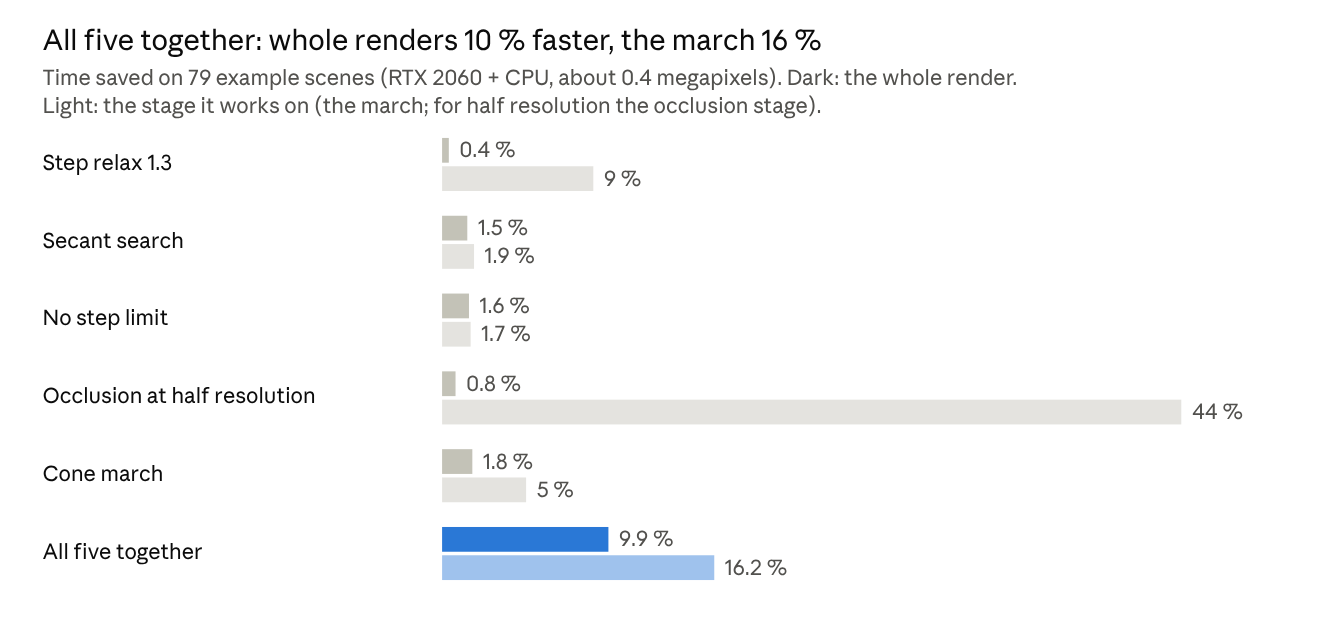
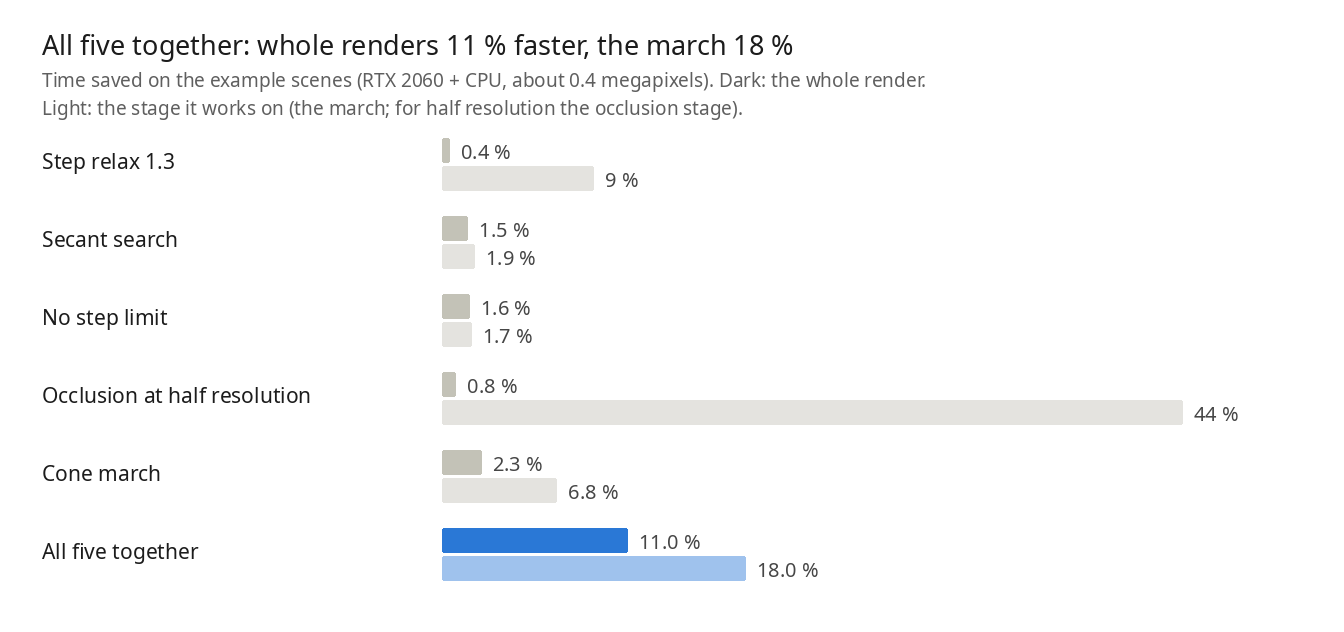
Cone march: the coarse rays within the march's step limit, margin 1.5: the coarse ray of a block (Marcher::cone_march, the card's cone pass) stepped by the distance estimate alone, without the step limit every pixel's march keeps (max(DE stop, 0.4) * mh04zsd, MB3D's raystep limiter), so where the es

diff --git a/src/cone.rs b/src/cone.rs
@@ -219,6 +219,43 @@ mod tests {
         assert!(si.zpos() >= 32768 && si.shadow > 0, "{} {}", si.zpos(), si.shadow);
     }
 
+    /// LightBulbMoon - No, Never (Amazing Surf, 1000 iterations), 192 by 192:
+    /// its estimate is far too large off the surface, only the march's
+    /// step limit finds the thin parts; without that limit the coarse rays
+    /// passed them (at margin 3 a 55th of the surface became background,
+    /// with the limit a 200th, the march's edge pixels).
+    #[test]
+    fn the_coarse_rays_keep_the_marchs_step_limit() {
+        let sc = Scene::parse(
+            "width = 192\nheight = 192\niterations = 1000\nmin_iterations = 1\nrstop = 1024\n\
+             zoom = 39.7619219387428\nmid = 0.590668486717442, -4.80312498339983, 0.552945843153886\n\
+             z_start = 0.439069097449697\nz_end = 128.821828929992\n\
+             vgrads = -0.00002291690465552792, -0.000005663780594645785, 0.000012774063303579667, 0.0000019315813555699398, 0.000023017705602866107, 0.000013670912374282298, -0.000013839223149258143, 0.00001259152258681232, -0.00001924497556427487\n\
+             fov = 60\nde_stop = 0.384\nrepeat_from = 1\nraystep = 0.3\nraystep_limiter = 0.3\nbin_search = 11\n\
+             step_sub_de_stop = true\nvary_de_stop = true\nfirst_step_random = false\n\
+             julia = true\njulia_c = 2.38125, 0.0109375, 0.0498046875, 0\n\
+             experimental = on\ncone_march = on\n\
+             [formula]\nname = _Rotate\niterations = 1\nrotation1 x = 25.1484375\nrotation1 y = -2.3671875\nrotation1 z = 64.21875\n\
+             [formula]\nname = Amazing Surf\niterations = 1\nscale = 1.0444335937499998\nmin r = -2.05625\nfold = 1.0703125\n\
+             rotation1 x = 5.1640625\nrotation1 y = 5\nrotation1 z = 2.609375\nscale vary = 0\nsphere or cylinder = 0\n",
+        )
+        .unwrap();
+        let p = CalcParams::new(&sc).unwrap();
+        assert!(p.cone.is_some());
+        let plain = CalcParams { cone: None, ..p.clone() };
+        let (mut m, mut mp) = (Marcher::new(&p, 0), Marcher::new(&plain, 0));
+        let (mut surface, mut lost) = (0, 0);
+        for y in 0..sc.height {
+            for x in 0..sc.width {
+                let hit = mp.march_pixel(x, y).zpos() < 32768;
+                surface += hit as usize;
+                lost += (hit && m.march_pixel(x, y).zpos() >= 32768) as usize;
+            }
+        }
+        assert!(surface > 10000, "{surface} pixels on the surface");
+        assert!(lost * 100 < surface, "{lost} of {surface} surface pixels background with the cone march");
+    }
+
     #[test]
     fn when_the_cone_march_is_not_used() {
         assert_eq!(not_wanted(&scene("")), None);

diff --git a/src/calc.rs b/src/calc.rs
@@ -2147,7 +2147,9 @@ impl<'a> Marcher<'a> {
             let rsf = if last_step > 0.0 && last_de > de + 1e-30 { (last_step / (last_de - de)).clamp(0.5, 1.0) } else { 1.0 };
             let stop = self.ms_de_stop as f64;
             let reach = (a + slope * t) * lip + stop;
-            let s = (de - reach - p.ms_de_sub as f64 * stop) * p.z_step_div as f64 * rsf / div;
+            // (no longer than the march's step limit: where the estimate is
+            // far too large the limit alone finds the thin parts)
+            let s = ((de - reach - p.ms_de_sub as f64 * stop) * p.z_step_div as f64 * rsf / div).min((self.ms_de_stop.max(0.4) * p.mh04zsd) as f64);
             if s < CONE_MIN_STEP * stop {
                 return (t, count);
             }
@@ -2384,11 +2386,13 @@ const CONE_MIN_STEP: f64 = 0.05;
 
 /// The cone march takes the distance estimate for up to this many times
 /// (over the step factor) a true bound: a block's spread counts that much
-/// (measured on 80 example scenes: at 1 the thin fins of a folding
-/// formula were lost, at 2 still in small pictures; at 3 the pictures
-/// differ as much as the march's own random first step makes them, and
-/// the gain is a tenth less than at 2).
-const CONE_MARGIN: f64 = 3.0;
+/// (measured on the 80 example scenes, the coarse ray's steps within the
+/// march's step limit: at 1.5 the pictures and their holes differ as much
+/// as the march's own random first step makes them; at 1 the fog of
+/// KentPress and the sphere of "cutted sphere over carpet" changed; 3, the
+/// first value, without the step limit, lost 1.8 % of LightBulbMoon -
+/// No, Never and had a third less gain).
+const CONE_MARGIN: f64 = 1.5;
 
 /// The secant search's step back towards the probe before (DE minus DE
 /// stop `f0`) from the probe with `f` on the other side of the surface:

diff --git a/src/mcp.rs b/src/mcp.rs
@@ -114,7 +114,7 @@ Experimental speed-ups (not in MB3D, change the picture a little, off by default
   thin shells can show holes), secant_search = on, free_steps = on (no step limit without
   dynamic fog), occlusion_half = on (DE occlusion at half resolution, that stage up to 4x faster),
   cone_march = on (a coarse ray per block of pixels starts every pixel's march, the march up to
-  60 % faster in open scenes; thin parts can be lost where the distance estimate is far off).
+  60 % faster in open scenes, about a fifth on average on the processor).
 Two objects (not in MB3D): with de_combination (min = union, max = intersection, ...), the
   second hybrid part placed apart: part2_position = x, y, z; part2_rotation = degrees x, y, z;
   part2_scale (1 = as is).

diff --git a/docs/EXPERIMENTAL.md b/docs/EXPERIMENTAL.md
@@ -1,11 +1,13 @@
 # The experimental speed-ups
 
-mb3d-rs 0.2.92 has five experimental speed-ups that change the picture a
-little, so they are off until you switch them on. Measured on the 80 example
-files that ship with the program (2 November 2026, about 0.4 megapixels, one
-PC: an RTX 2060 and a Ryzen 9 3900X), all five together make a render a tenth
-faster on average and a third faster in open scenes; on the processor alone the
-cone march cuts the march by 18 %, up to 64 %.
+mb3d-rs has five experimental speed-ups that change the picture a little, so
+they are off until you switch them on. Measured on the 80 example files that
+ship with the program (2 November 2026, about 0.4 megapixels, one PC: an RTX
+2060 and a Ryzen 9 3900X), all five together make a render 11 % faster on
+average and a third faster in open scenes; on the processor alone the cone
+march cuts the march by 18 %, up to 66 %. (The figures for the cone march are
+those of its fixed version in 0.2.93: in 0.2.92 it could lose thin parts where
+the distance estimate is far too large, see [below](#the-cone-march-in-0292).)
 
 ## Where they are
 
@@ -31,18 +33,18 @@ All five work on the processor and on the graphics card.
 
 ## Each one on its own
 
-On its own, each speed-up shaves 0.4–1.8 % off a whole render on this PC,
+On its own, each speed-up shaves 0.4–2.3 % off a whole render on this PC,
 because the graphics card already does most of the marching and the shadows,
 occlusion and reflections take their own time. Look at the stage each one
 works on and the picture is clearer: step relax cuts the march by 9 %, the
-cone march by 5 %, and the half-resolution occlusion cuts the occlusion stage
+cone march by 7 %, and the half-resolution occlusion cuts the occlusion stage
 by 44 %.
 
 ![Time saved per speed-up: the whole render and the stage it works on](img/experimental_gains.png)
 
 On the processor alone the cone march matters most: measured on the same
-scenes without the card, it cuts the march by 18 % (median), up to 64 % in
-open scenes.
+scenes without the card, it cuts the march by 18 % (median 21 %), up to 66 %
+in open scenes, and 68 of the 70 scenes it works in get faster.
 
 | Speed-up | Where it shines | Pixels changed (median) | Watch out for |
 |---|---|---|---|
@@ -50,7 +52,7 @@ open scenes.
 | Secant search | Scenes with many surface hits: up to −8 % | 0.7 % | Fine detail moves slightly |
 | No step limit | Open scenes without dynamic fog: up to −30 % | 0.03 % | Nothing visible |
 | Occlusion at half resolution | Scenes with DE occlusion: up to −20 % of the whole render | 0.0 % (up to 23 % in fine detail) | Softer occlusion in fine detail |
-| Cone march | Open scenes: up to −43 % of the whole render (−64 % of the march on the processor) | 0.9 % | Thin parts of folding formulas at small sizes; off by itself for inside+outside, disable analytic DE and volumetric light |
+| Cone march | Open scenes: up to −47 % of the whole render (−66 % of the march on the processor) | 0.9 % | On the card, scenes with dynamic fog can get slower (6 AM – Torii temple); off by itself for inside+outside, disable analytic DE and volumetric light |
 
 "Pixels changed" is the share of pixels that differ by more than 8 of 255
 from the plain render; the march's own random first step already moves about
@@ -58,15 +60,15 @@ from the plain render; the march's own random first step already moves about
 
 ## All five together
 
-All five switched on cut the 79 renders from 161 s to 145 s, a tenth less,
-and 68 of the 79 scenes got faster (the slowest of the rest lost 7 %). The
-best scenes: Nothing left but bones −45 %, LightBulbMoon – No, Never −39 %,
-DEcomb1 −35 %, Mandalex −33 %. The march stage alone shrinks by 16 %, the
-occlusion stage by 46 %.
+All five switched on cut the 78 renders from 155 s to 138 s, 11 % less, and 71
+of the 78 scenes got faster (the slowest of the rest, Wada basin, a one-second
+render, lost a fifth). The best scenes: Nothing left but bones −48 %, Mandalex
+−42 %, LightBulbMoon – No, Never −41 %, DEcomb1 −36 %. The march stage alone
+shrinks by 18 %, the occlusion stage by 46 %.
 
-That is more than the five single gains add up to (they sum to 6 %), so they
-help each other more than they get in each other's way. The price: a median
-3.2 % of the pixels differ from the plain render, mostly in fine shading; in
+That is about what the five single gains add up to (12 %), so they rarely get
+in each other's way. The price: a median 3.4 % of the pixels differ from the
+plain render, mostly in fine shading; in
 noisy scenes (spineJulia, the Julia examples) it is far more, but those differ
 as much between two plain renders with a different first step.
 
@@ -77,14 +79,14 @@ do not.
 
 | Pair | Effect | Why |
 |---|---|---|
-| Cone march + step relax | **Helps**: together −5 % (median) where each alone gives −1 % and −2 %; better than the better one alone in 22 scenes, worse in 5 | The cone march skips the open space in front of the surface, step relax then lengthens the steps that are left near it: each shortens the part the other cannot |
-| Cone march + no step limit | **Overlaps**: together −1.8 % (median), hardly more than the cone march alone; worse than the better one alone in 13 scenes | Both remove the cost of open space; once the cone march has jumped over it, there are few long steps left to free |
+| Cone march + step relax | **Helps**: together −5.5 % (median) where each alone gives −2.6 % and −4 %; better than the better one alone in 15 scenes, worse in 9 | The cone march skips the open space in front of the surface, step relax then lengthens the steps that are left near it: each shortens the part the other cannot |
+| Cone march + no step limit | **Overlaps**: together −2.9 % (median), hardly more than the cone march alone (−2.6 %); worse than the better one alone in 9 scenes, better in 3 | Both remove the cost of open space; once the cone march has jumped over it, there are few long steps left to free |
 | Step relax + secant search | Independent | One changes the steps, the other only the last search for the surface |
 | Occlusion at half resolution + anything | Independent | It works on the occlusion stage after the march; its gain comes on top of the others' |
 | Secant search + cone march | Independent | The cone march ends before the surface search begins |
 
 None of the pairs makes a picture worse than the single switches do: the pixel
-changes of "all five" (3.2 % median) are about those of step relax (2.6 %)
+changes of "all five" (3.4 % median) are about those of step relax (2.8 %)
 plus the half-resolution occlusion, and the holes step relax can make in thin
 shells appear with or without the others.
 
@@ -96,11 +98,25 @@ shells appear with or without the others.
   the half-resolution occlusion are safe in practice; add step relax only
   after comparing with a plain render, since thin shells can show holes.
 - On the processor alone (no graphics card, a laptop, the swarm), the cone
-  march is the one that counts: −18 % of the march on average, up to −64 %.
+  march is the one that counts: −18 % of the march on average, up to −66 %.
 - The switches are saved with the scene, so a parameter file you share carries
   them; tell people when you post one.
 
 Every number here is from the 80 example files at about 0.4 megapixels on one
-PC (one scene, Fishbowl, left out of the totals: its run hit a shader compile);
-your own scenes and card will differ, but the ordering of the gains should
-hold. How each speed-up works: [TECHNICAL.md](TECHNICAL.md#experimental-speed-ups).
+PC (two scenes left out of the totals: Fishbowl, whose run hit a shader
+compile, and 6 AM – Torii temple, whose renders doubled in every variant of the
+run, also in those that leave the march alone); your own scenes and card will
+differ, but the ordering of the gains should hold. How each speed-up works: [TECHNICAL.md](TECHNICAL.md#experimental-speed-ups).
+
+## The cone march in 0.2.92
+
+In 0.2.92 the cone march's coarse rays ignored the march's step limit
+(MB3D's raystep limiter), which is what finds the thin parts of formulas whose
+distance estimate is far too large. In LightBulbMoon – No, Never (Amazing
+Surf) 1.8 % of the pixels became background, whole bits of the moon and a
+branch; a check for such holes had looked for the wrong background value in
+the depth maps and missed them. 0.2.93 keeps the coarse rays within that
+limit, and with it a smaller margin around them is as safe in every example
+file (1.5 instead of 3), so the cone march also got faster: −18 % of the
+march on the processor instead of −12 %. If you rendered with the cone march
+in 0.2.92, compare thin, far-off parts with a plain render.

diff --git a/docs/TECHNICAL.md b/docs/TECHNICAL.md
@@ -1092,7 +1092,7 @@ runs (run to run the pictures differ in a median 0.001 % of the pixels):
 | `step_relax = 1.3` | total −5.1 %, median −5.0 %, best −20 % (Chrystal), worst +8 %; 62 faster, 2 slower | median 2.6 %, more than 5 % in 26 files; holes in thin shells (BatJorge – Pong 703 – Swirls 58 %), speckle in noisy scenes (spineJulia 48 %, the MutaGen canary 41 %) |
 | `secant_search` | total −1.5 %, median −2.3 %, best −18 % | median 0.7 %, more than 5 % in 12 files (spineJulia 15 %) |
 | `free_steps` | total −1.7 %, median −0.6 %, best −30 % (LightBulbMoon – No, Never) | median 0.03 %, more than 5 % in 5 files |
-| `cone_march` (2026-11-02, the march stage on the processor, 0.2 megapixels) | total −18 %, median −18 %, best −64 % (Dainbramage – Nothing left but bones), worst +2 %; 69 of 70 faster (off in 9: inside and outside, disable analytic DE, volumetric light) | median 0.4 %: in every file as much as the random first step changes (the base against itself with the random first step toggled), no holes |
+| `cone_march` (2026-11-02, the march stage on the processor, 0.2 megapixels; v0.2.93: the coarse rays within the step limit, margin 1.5) | total −17.9 %, median −21.1 %, best −66 % (Dainbramage – Nothing left but bones), worst +1 %; 68 of 70 faster (off in 9: inside and outside, disable analytic DE, volumetric light) | median 1.0 %: in every file, pictures and holes, as much as the random first step changes (the base against itself with the random first step toggled both ways); v0.2.92 lost 1.8 % of LightBulbMoon – No, Never |
 
 ### Cone march
 
@@ -1106,11 +1106,14 @@ block's middle: at depth `t` every pixel's ray of the block lies within
 their directions, in step widths; computed from every pixel of the block,
 `Marcher::ray`). The march takes the distance estimate for a bound within
 its step factor, and some formulas' estimates are far off between rays, so
-the coarse ray keeps `CONE_MARGIN` (3) times that spread over the step
+the coarse ray keeps `CONE_MARGIN` (1.5) times that spread over the step
 factor and the DE stop at its depth in reach: it steps by `(de - reach -
 ms_de_sub * stop) * z_step_div * rsf / (1 + slope * lip + de_stop *
 de_stop_factor)` (the divisor: the reach grows over the step) with the
-march's Lipschitz clamp and its slowing down (`rsf`), and ends when the step
+march's Lipschitz clamp and its slowing down (`rsf`), never longer than the
+march's step limit (`max(stop, 0.4) * mh04zsd`, MB3D's raystep limiter:
+where an estimate is far too large, as Amazing Surf's in LightBulbMoon – No,
+Never, only that limit finds the thin parts), and ends when the step
 falls under `CONE_MIN_STEP` (0.05) of the DE stop, or past the end of the
 view (+inf: the block is background). Up to that depth every pixel's ray
 has an estimate above the DE stop (within the assumption), so the pixel's
@@ -1126,10 +1129,20 @@ band's edge in both bands. Not with the volumetric light (it integrates
 along every ray), "disable analytic DE", inside and outside together (the
 start decides the side per pixel), 2D slices, and not in the sample
 marches (the row weights, the precision probe: its CPU pixels march without
-the cone too). The margin: at 1 the thin fins of Abominog-Ua were lost (22 %
-of the pixels), at 2 still at 0.2 megapixels (7 %), at 3 the picture is at
-its noise level (2.4 % against 2.3 %); on LightBulbMoon – No, Never the gain
-goes from −66 % at 2 to −63 % at 3.
+the cone too). The margin, measured on the 80 example files (2 November
+2026, the march on the processor, 0.2 megapixels; a hole is a pixel on the
+surface in the plain render and background with the cone march, compared
+with the plain render against itself with the random first step toggled
+both ways): v0.2.92 had no step limit in the coarse ray and a margin of 3,
+and LightBulbMoon – No, Never lost 1.8 % of its pixels (4.7 % at 1, still
+0.4 % at 6: no margin makes up for the missing limit). With the limit, 1.5
+is at the noise level in every file, pictures and holes, and gains a third
+more than 3 (march −17.8 % against −11.9 %); at 1 the fog of KentPress and
+the sphere of "cutted sphere over carpet" changed. The card at 1 megapixel:
+every file at its noise level, LightBulbMoon's holes 0.1 % (v0.2.92: 2.3 %).
+On the card the cone passes of a band are few, long rays; in 6 AM – Torii
+temple (dynamic fog, where the step limit holds every step short) they
+make the march slower (+73 %, v0.2.92 +44 %).
 | `occlusion_half` | the 10 files with DE occlusion: total −17.6 % (DEcomb1 −24 %); the stage 3.8 times faster on the processor, 2–3 times in Auto mode | 0.01–27 % (JuliaSetSample), softer occlusion in fine detail |
 
 Earlier, on the processor alone at 400 px, `step_relax = 1.3` gave −11.6 %

diff --git a/docs/i18n/README.hi.md b/docs/i18n/README.hi.md
@@ -1218,7 +1218,7 @@ MB3D एक फ़ाइल की गणना नहीं कर सका (*
 | सतह के लिए **सेकेंट खोज** | −2 % (माध्यिका), −18 % तक | माध्यिका 0.7 %; बारीक विवरण थोड़ा खिसकता है |
 | **डायनामिक कोहरे के बिना कदमों की कोई सीमा नहीं** | −1 % (माध्यिका), खुले दृश्यों में −30 % तक | ज़्यादातर वही चित्र (माध्यिका 0.03 %) |
 | **आधे रिज़ॉल्यूशन पर DE ऑक्लूज़न** | DE ऑक्लूज़न वाली 10 फ़ाइलों पर −18 % (DEcomb1 −24 %); वह चरण 4 गुना तक तेज़ | 0–27 % पिक्सेल, बारीक विवरण में नरम ऑक्लूज़न; देखने में एक जैसा |
-| **शंकु मार्च**: पिक्सेल के हर ब्लॉक के लिए एक मोटी किरण, हर पिक्सेल का मार्च वहाँ से शुरू जहाँ वह रुकी | प्रोसेसर पर मार्च −18 % (माध्यिका), खुले दृश्यों में −64 % तक (70 में से 69 तेज़); कार्ड पर खुले दृश्यों के पूरे रेंडर −63 % तक | माध्यिका 0.4 %, उतना ही जितना मार्च का अपना यादृच्छिक पहला कदम बदलता है; *जहाँ दूरी अनुमान बहुत गलत हो वहाँ पतले हिस्से खो सकते हैं* |
+| **शंकु मार्च**: पिक्सेल के हर ब्लॉक के लिए एक मोटी किरण, हर पिक्सेल का मार्च वहाँ से शुरू जहाँ वह रुकी | प्रोसेसर पर मार्च −18 % (माध्यिका −21 %), खुले दृश्यों में −66 % तक (70 में से 68 तेज़); कार्ड पर खुले दृश्यों के पूरे रेंडर −47 % तक | माध्यिका 1.0 %, उतना ही जितना मार्च का अपना यादृच्छिक पहला कदम बदलता है; *0.2.92 में जहाँ दूरी अनुमान बहुत बड़ा हो वहाँ पतले हिस्से खो सकते थे; 0.2.93 में ठीक किया गया* |
 
 किसी चित्र के लिए इनमें से किसी पर भरोसा करने से पहले इनके बिना बने रेंडर से तुलना करें।
 

diff --git a/docs/i18n/README.ur.md b/docs/i18n/README.ur.md
@@ -1218,7 +1218,7 @@ MB3D ان میں سے ایک فائل کا حساب نہیں کر سکا (*Test8
 | سطح کے لیے **سیکنٹ تلاش** | −2 % (وسطانیہ)، −18 % تک | وسطانیہ 0.7 %؛ باریک تفصیل تھوڑی سرکتی ہے |
 | **متحرک دھند کے بغیر قدموں کی کوئی حد نہیں** | −1 % (وسطانیہ)، کھلے مناظر میں −30 % تک | زیادہ تر وہی تصویر (وسطانیہ 0.03 %) |
 | **آدھی ریزولوشن پر DE اوکلوژن** | DE اوکلوژن والی 10 فائلوں پر −18 % (DEcomb1 −24 %)؛ وہ مرحلہ 4 گنا تک تیز | 0–27 % پکسلز، باریک تفصیل میں نرم اوکلوژن؛ دیکھنے میں ایک جیسا |
-| **مخروطی مارچ**: پکسلز کے ہر بلاک کے لیے ایک موٹی شعاع، ہر پکسل کا مارچ وہاں سے شروع جہاں وہ رکی | پروسیسر پر مارچ −18 % (وسطانیہ)، کھلے مناظر میں −64 % تک (70 میں سے 69 تیز)؛ کارڈ پر کھلے مناظر کے پورے رینڈر −63 % تک | وسطانیہ 0.4 %، اتنا ہی جتنا مارچ کا اپنا بے ترتیب پہلا قدم بدلتا ہے؛ *جہاں فاصلے کا تخمینہ بہت غلط ہو وہاں پتلے حصے کھو سکتے ہیں* |
+| **مخروطی مارچ**: پکسلز کے ہر بلاک کے لیے ایک موٹی شعاع، ہر پکسل کا مارچ وہاں سے شروع جہاں وہ رکی | پروسیسر پر مارچ −18 % (وسطانیہ −21 %)، کھلے مناظر میں −66 % تک (70 میں سے 68 تیز)؛ کارڈ پر کھلے مناظر کے پورے رینڈر −47 % تک | وسطانیہ 1.0 %، اتنا ہی جتنا مارچ کا اپنا بے ترتیب پہلا قدم بدلتا ہے؛ *0.2.92 میں جہاں فاصلے کا تخمینہ بہت بڑا ہو وہاں پتلے حصے کھو سکتے تھے؛ 0.2.93 میں ٹھیک کیا گیا* |
 
 کسی تصویر کے لیے ان میں سے کسی پر بھروسا کرنے سے پہلے ان کے بغیر بنے رینڈر سے موازنہ کریں۔
 

diff --git a/docs/i18n/README.ko.md b/docs/i18n/README.ko.md
@@ -1131,7 +1131,7 @@ AI 어시스턴트도 이를 사용합니다). 명령줄에서는 `-s experiment
 | 표면을 찾는 **할선(secant) 탐색** | −2 %(중앙값), 최대 −18 % | 중앙값 0.7 %; 미세한 디테일이 약간 움직임 |
 | **동적 안개가 없을 때 단계 수 제한 없음** | −1 %(중앙값), 트인 장면에서 최대 −30 % | 대부분 같은 그림(중앙값 0.03 %) |
 | **DE 오클루전을 절반 해상도로** | DE 오클루전을 쓰는 10개 파일에서 −18 %(DEcomb1 −24 %); 이 단계는 최대 4배 빠름 | 픽셀의 0–27 %, 미세한 디테일에서 오클루전이 더 부드러움; 겉보기에는 비슷함 |
-| **원뿔 마치**: 픽셀 블록마다 거친 광선 하나, 각 픽셀의 마치는 그것이 멈춘 곳에서 시작 | 프로세서에서 마치 −18 %(중앙값), 트인 장면에서 최대 −64 %(70개 중 69개가 더 빠름); 그래픽 카드에서는 트인 장면의 전체 렌더링이 최대 −63 % | 중앙값 0.4 %, 마치 자체의 무작위 첫 단계가 바꾸는 만큼; *거리 추정이 크게 빗나간 곳에서는 얇은 부분이 사라질 수 있습니다* |
+| **원뿔 마치**: 픽셀 블록마다 거친 광선 하나, 각 픽셀의 마치는 그것이 멈춘 곳에서 시작 | 프로세서에서 마치 −18 %(중앙값 −21 %), 트인 장면에서 최대 −66 %(70개 중 68개가 더 빠름); 그래픽 카드에서는 트인 장면의 전체 렌더링이 최대 −47 % | 중앙값 1.0 %, 마치 자체의 무작위 첫 단계가 바꾸는 만큼; *0.2.92에서는 거리 추정이 너무 큰 곳에서 얇은 부분이 사라질 수 있었습니다; 0.2.93에서 수정* |
 
 그림에 사용하기 전에 이 기능 없이 렌더링한 결과와 비교해 보십시오.
 

diff --git a/docs/i18n/README.fr.md b/docs/i18n/README.fr.md
@@ -1307,7 +1307,7 @@ elles :
 | **Recherche de la surface par sécante** | −2 % (médiane), jusqu'à −18 % | médiane 0,7 % ; le détail fin se déplace légèrement |
 | **Pas de limite de pas sans brouillard dynamique** | −1 % (médiane), jusqu'à −30 % dans les scènes ouvertes | le plus souvent la même image (médiane 0,03 %) |
 | **Occlusion DE en demi-résolution** | −18 % sur les 10 fichiers avec occlusion DE (DEcomb1 −24 %) ; cette étape jusqu'à 4 fois plus rapide | 0–27 % des pixels, occlusion plus douce dans le détail fin ; l'aspect est le même |
-| **Marche en cône** : un rayon grossier par bloc de pixels, la marche de chaque pixel part de là où il s'est arrêté | la marche −18 % (médiane) sur le processeur, jusqu'à −64 % dans les scènes ouvertes (69 sur 70 plus rapides) ; sur la carte, rendus complets de scènes ouvertes jusqu'à −63 % | médiane 0,4 %, autant que le premier pas aléatoire de la marche change à lui seul ; *des parties fines peuvent être perdues là où l'estimation de distance est très fausse* |
+| **Marche en cône** : un rayon grossier par bloc de pixels, la marche de chaque pixel part de là où il s'est arrêté | la marche −18 % (médiane −21 %) sur le processeur, jusqu'à −66 % dans les scènes ouvertes (68 sur 70 plus rapides) ; sur la carte, rendus complets de scènes ouvertes jusqu'à −47 % | médiane 1,0 %, autant que le premier pas aléatoire de la marche change à lui seul ; *la 0.2.92 pouvait perdre des parties fines là où l'estimation de distance est bien trop grande ; corrigé dans la 0.2.93* |
 
 Comparez avec un rendu sans elles avant de vous fier à l'une d'elles pour une
 image.

diff --git a/docs/i18n/README.csb.md b/docs/i18n/README.csb.md
@@ -1234,7 +1234,7 @@ chùtszi z dwóch renderów kòżdégò), w zestôwkù z timi samima lopkama bez
 | **Szukanié pòwierzchni metodą secznëch** | −2 % (mediana), do −18 % | mediana 0,7 %; drobné detale krzynã sã przesuwają |
 | **Bez lëmitu krokòw bez dinamiczny mgłë** | −1 % (mediana), do −30 % w òtemkłëch scenach | nôczãscy ten sam òbrôzk (mediana 0,03 %) |
 | **DE occlusion przë pòłowie rozdzélnoscë** | −18 % w 10 lopkach z DE occlusion (DEcomb1 −24 %); ten etap do 4 razy chùtszi | 0–27 % pikselów, miãkszô òkluzjô w drobnëch detalach; wëzdrzi tak samò |
-| **Stożkòwi marsz**: grëbi parmiéń na blok piksli, marsz kòżdégò piksla zaczinô sã tam, gdze sã zatrzimôł | marsz −18 % (mediana) na procesorze, do −64 % w òtemkłëch scenach (69 z 70 chùtszé); na karce całé renderë òtemkłëch scen do −63 % | mediana 0,4 %, tëli, jak zmieniwô gwôsny przëpôdkòwi pierszi krok marszu; *cenczé dzéle mògą sã zgùbic tam, gdze szacënk òdległoscë je dalek òd prôwdë* |
+| **Stożkòwi marsz**: grëbi parmiéń na blok piksli, marsz kòżdégò piksla zaczinô sã tam, gdze sã zatrzimôł | marsz −18 % (mediana −21 %) na procesorze, do −66 % w òtemkłëch scenach (68 z 70 chùtszé); na karce całé renderë òtemkłëch scen do −47 % | mediana 1,0 %, tëli, jak zmieniwô gwôsny przëpôdkòwi pierszi krok marszu; *0.2.92 mògł gùbic cenczé dzéle tam, gdze szacënk òdległoscë je za wiôldżi; pòprôwioné w 0.2.93* |
 
 Nim zaùfôsz jednémù z nich przë òbrôzkù, pòrównôj z renderã bez nich.
 
